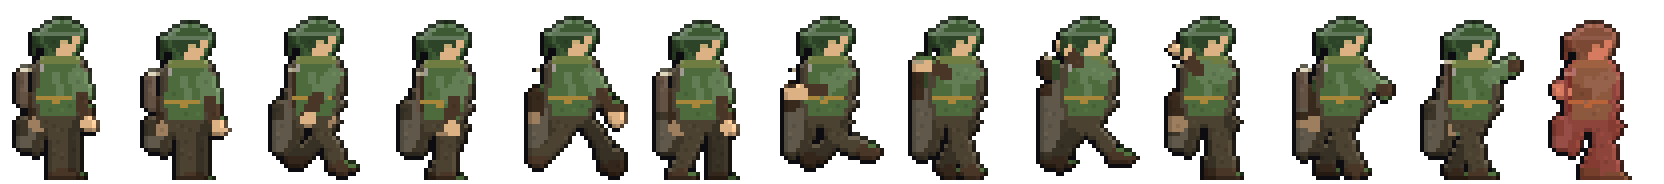
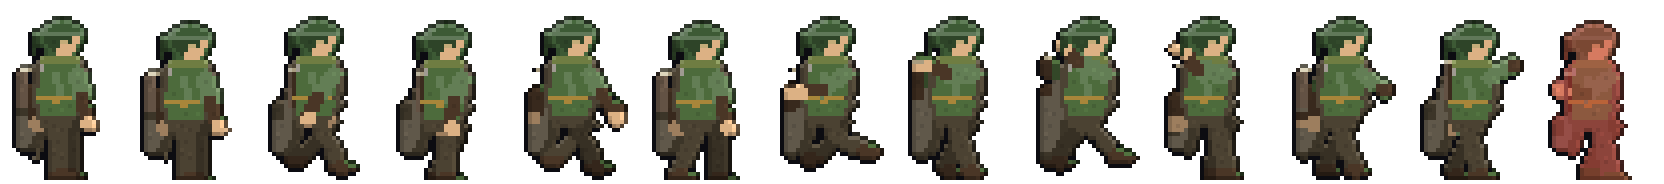
서 있을 때 망토를 걸을 때처럼 · walk3 다리 · 운석 사건
- mkplayer fix_frames: idle1·idle2 의 등 뒤(0~4열 · 17~35줄)를 walk4 의 것으로 — 뒷팔 밑에
  망토가 뭉쳐 자루처럼 보였다(사용자가 걸을 때 쪽을 고름). walk3(왼쪽 다섯째)은 보폭이 칸보다
  넓어 뒷다리가 망토에 파묻혔다 — walk1 다리를 가져오고 앞뒤 다리 색을 맞바꿔 걸음이 번갈아 가게.
  다른 캐릭터는 방랑자와 같은 자리 색으로 짝을 옮겨 쓴다.
- 운석(game.js '운석' 절): 반나절마다 0.0018(비 0.20 의 0.9%). 하늘 원경 불덩이 + 알림 → 5.2초
  뒤 낙하. 거리로 지진 세기·길이, 구덩이(공기·재·흙 — 운석 전용 타일·수정은 아직 없음), 반경 안
  몹 소멸(경험치 없음 · 보스 제외), 플레이어 판정이 R+1 칸 안이면 즉사(onDeath('meteor')).
  자리는 마을·캠프·유적·물건·기계·지은 타일·땅 위 벽·물·절벽 가장자리를 피한다(40번 뽑기 확인).
  가까이 떨어지면 마지막 1.2초 세계 앞으로 불덩이가 내리꽂힌다. ?debug=meteor(&at=me|x, &dx=).

Claude-Session: https://claude.ai/code/session_015bTXkb4q3SzK7wZ8JdbtYP

diff --git a/game/js/game.js b/game/js/game.js
@@ -409,7 +409,7 @@ const G = {
     this.villageUnlocked = false; this.goldRate = 1; this.market = {}; this.dayCount = 0; this.trainedToday = 0;
     this.achievements = {}; this.tally = {};
     this.survey = {}; this.ruinPulse = {}; this.pendingEcho = null; this.pulseHere = null;
-    this.rocks = []; this.quake = null; this.caveHere = 0; this._caveLast = 0;
+    this.rocks = []; this.quake = null; this.meteor = null; this.meteorRolled = undefined; this.caveHere = 0; this._caveLast = 0;
     this.nearStObj = { work: null, forge: null };
     this.event = null; this.eventRolled = -1; this.lairs = {}; this.seenRuins = {}; this.seenBiomes = {}; this._bgId = undefined; this.ruinMarks = {}; this.ruinEvDone = {}; this.trapTimer = 0;
     this.rainT = 0; this.rainDrops = null; this.smokes = []; this.smokeT = 0;
@@ -433,6 +433,12 @@ const G = {
     // 플레이에는 영향 없음(파라미터가 없으면 이 블록은 그냥 안 탄다).
     // &lv=2 또는 &lv=3을 붙이면 그 단계까지(2층 증축, 3단계 성벽) 미리 올려서 시작한다.
     const qs = new URLSearchParams(location.search);
+    /* ?debug=meteor — 2.5초 뒤 운석. &at=me 면 머리 위(즉사 확인), &at=<x> 면 그 칸, 없으면 오른쪽 &dx=(30)칸.
+       자리 검사(meteorSiteOk)를 건너뛰는 시험 전용이다. */
+    if (qs.get('debug') === 'meteor') {
+      const at = qs.get('at'), me = Math.floor(this.player.cx / TS);
+      setTimeout(() => this.startMeteor(at === 'me' ? me : at ? +at : me + (+qs.get('dx') || 30)), 2500);
+    }
     if (qs.get('debug') === 'village') {
       this.villageUnlocked = true;
       this.world.restoreDawnCity();
@@ -3172,6 +3178,13 @@ const G = {
   updateEvents(dt) {
     const night = this.dayT < 5 * 60 || this.dayT > 19 * 60;
     const phase = (this.dayCount * 2) + (night ? 1 : 0);
+    /* 운석은 이벤트(this.event)와 따로 굴린다 — 비·붉은 달이 오는 중에도 떨어질 수 있다.
+       불러온 직후의 국면은 굴리지 않는다(같은 국면을 다시 굴려 같은 운석이 또 떨어지는 것을 막는다). */
+    if (this.meteorRolled === undefined) this.meteorRolled = phase;
+    if (this.meteorRolled !== phase) {
+      this.meteorRolled = phase;
+      if (!this.meteor && new RNG(this.world.seed + '_meteor' + phase).chance(this.METEOR.chance)) this.startMeteor();
+    }
     if (this.event) {
       this.event.t += dt;
       // 국면이 끝나면 이벤트도 끝난다. 비처럼 낮/밤 구분이 없는 이벤트는 dur(지속 시간)로 대신 끊는다
@@ -4472,7 +4485,7 @@ const G = {
       this.ruinMarks = d.ruinMarks || {}; this.ruinEvDone = d.ruinEvDone || {};
       this.cipherSeen = d.cipherSeen || {};
       this.survey = d.survey || {}; this.ruinPulse = {}; this.pendingEcho = null; this.pulseHere = null;
-      this.rocks = []; this.quake = null; this.caveHere = 0; this._caveLast = 0;
+      this.rocks = []; this.quake = null; this.meteor = null; this.meteorRolled = undefined; this.caveHere = 0; this._caveLast = 0;
       this.deathMark = d.deathMark || null;
       this.asmRan = d.asmRan || 0;
       this.everPlanted = d.everPlanted || 0;
@@ -5406,6 +5419,8 @@ const G = {
       c.restore();
     }
 
+    this.drawMeteorNear(c, camX, camY);                 // 가까이 떨어지는 운석 · 떨어진 순간의 섬광
+
     // ---- 용광로 굴뚝 연기 ---- (입자보다 먼저 — 불티가 연기 앞에 보이도록)
     this.drawSmoke(c, camX, camY);
 
@@ -5570,6 +5585,7 @@ const G = {
       c.globalAlpha = 1;
       // 구름 — 비가 오는 동안은 짙고 빽빽하게, 평소엔 옅게 흘러간다
       this.drawClouds(c, camX, camY, this.rainT || 0);
+      this.drawMeteorSky(c, camY);                     // 운석 — 구름 앞, 원경 능선 뒤
     } else {
       const deep = camY > HELL_Y * TS - 400;
       const g = c.createLinearGradient(0, 0, 0, this.H);
@@ -7361,6 +7377,7 @@ const G = {
     this.rocks = this.rocks || [];
     this.updateRocks(dt);
     if (this.quake) this.updateQuake(dt);
+    if (this.meteor) this.updateMeteor(dt);
     const tx = Math.floor(p.cx / TS), ty = Math.floor(p.cy / TS);
     this._caveT = (this._caveT || 0) - dt;
     if (this._caveT > 0) return;
@@ -7438,6 +7455,206 @@ const G = {
         this.rocks.splice(i, 1);
       }
     }
+  },
+
+  /* ================= 운석 =================
+     아주 드문 사건 — 반나절(국면)마다 한 번 굴리고, 비(0.20)의 1/100 이 안 되는 0.0018 이다(0.9%).
+     흐름: ① 하늘 원경을 가르는 불덩이 + 알림 → ② FALL 초 뒤 떨어진다 — 지진(가까울수록 세고 길다),
+     구덩이, 폭발 반경 안의 생물은 죽는다. **플레이어 머리 위면 즉사**(onDeath('meteor')).
+     떨어질 자리는 세계 아무 데나지만 **이미 무언가 지어진 곳은 빼고** 고른다(meteorSiteOk).
+     ★ 운석 전용 타일·운석 수정은 아직 없다(사용자: "아직은 안 쓸 것"). 구덩이는 있는 타일로만 —
+       판 자리는 공기, 바닥은 재(T.ASH), 테두리는 흙이 한 칸 솟는다.
+     진행 상태(this.meteor)는 저장하지 않는다 — 떨어지는 몇 초 사이에 저장·불러오기를 하면 그냥 안 떨어진다.
+     구덩이는 타일이라 저장된다. */
+  METEOR: { chance: 0.0018, fall: 5.2, fg: 1.2, rMin: 5, rMax: 8 },
+
+  /** 떨어져도 되는 자리인가 — 구덩이 상자(좌우 R+3, 위 18 · 아래 R+2) 안에 지은 것이 하나도 없어야 한다 */
+  meteorSiteOk(cx, R) {
+    const w = this.world;
+    if (cx < 40 || cx > WW - 40 || inSeaZone(cx)) return false;
+    const cy = w.surface[cx];
+    const x0 = cx - R - 3, x1 = cx + R + 3, y0 = cy - 18, y1 = cy + R + 2;
+    if (w.giantTree && x1 >= w.giantTree.x - 24 && x0 <= w.giantTree.x + 24) return false;
+    const built = new Set([T.PLANK, T.BRICK, T.PLATFORM, T.TORCH, T.RUINBRICK, T.RUINTILE, T.ALTARSTONE]);
+    for (let x = x0; x <= x1; x++) {
+      if (Math.abs(w.surface[clamp(x, 0, WW - 1)] - cy) > R + 4) return false;     // 절벽 가장자리는 피한다
+      for (let y = y0; y <= y1; y++) {
+        const z = w.zoneAt(x, y);
+        if (z === 'village' || z === 'camp' || z === 'citadel' || z === 'deepshaft') return false;
+        if (w.ruinAt(x, y)) return false;
+        const t = w.get(x, y);
+        if (built.has(t) || MACH_OF_TILE[t] || TILE_DEF[t].liquid) return false;
+        if (y < w.surface[clamp(x, 0, WW - 1)] && w.walls[w.i(x, y)]) return false;   // 땅 위의 벽 = 누가 지은 집
+        if (w.machines && w.machines.has(y * WW + x)) return false;
+      }
+    }
+    const bx0 = x0 * TS, bx1 = (x1 + 1) * TS, by0 = y0 * TS, by1 = (y1 + 1) * TS;
+    for (const o of w.objects) if (o.x < bx1 && o.x + (o.w || TS) > bx0 && o.y < by1 && o.y + (o.h || TS) > by0) return false;
+    return true;
+  },
+
+  /** 운석을 띄운다. at 을 주면 그 칸에(디버그), 아니면 지은 것이 없는 자리를 뽑는다 */
+  startMeteor(at) {
+    if (this.meteor) return false;
+    const w = this.world, M = this.METEOR;
+    let x = -1, R = M.rMin + Math.floor(Math.random() * (M.rMax - M.rMin + 1));
+    if (at !== undefined) x = clamp(Math.round(at), 40, WW - 40);
+    else for (let i = 0; i < 400 && x < 0; i++) {
+      const c = 40 + Math.floor(Math.random() * (WW - 80));
+      if (this.meteorSiteOk(c, R)) x = c;
+    }
+    if (x < 0) return false;                                  // 떨어질 데가 없다 — 이번엔 지나간다
+    const p = this.player, pd = x - Math.floor(p.cx / TS);
+    this.meteor = { t: 0, x, y: w.surface[x], R, dir: pd >= 0 ? 1 : -1, hit: false, quake: 0, amp: 0 };
+    this.toast('☄ 하늘을 가르는 불덩이 — 운석이 떨어진다!', 'bad');
+    this.sfx('boss');
+    return true;
+  },
+
+  updateMeteor(dt) {
+    const m = this.meteor, M = this.METEOR;
+    m.t += dt;
+    if (!m.hit && m.t >= M.fall) this.meteorImpact();
+    if (m.hit) {
+      /* 지진 — 떨어진 곳과의 거리로 세기(amp)와 길이(quake)가 갈린다. shake 는 초당 26씩 가라앉으므로
+         길게 흔들리려면 끝날 때까지 다시 채워 줘야 한다. */
+      if (m.quake > 0) {
+        m.quake -= dt;
+        this.shake = Math.max(this.shake, m.amp * clamp(m.quake / m.quakeMax, 0.25, 1));
+      }
+      if (m.t > M.fall + Math.max(4, m.quakeMax || 0)) this.meteor = null;
+    }
+  },
+
+  meteorImpact() {
+    const m = this.meteor, w = this.world, p = this.player;
+    m.hit = true;
+    const cx = m.x, cy = m.y, R = m.R;
+    const ptx = p.cx / TS, pty = p.cy / TS;
+    const dist = Math.hypot(ptx - (cx + 0.5), pty - cy);
+    /* 세기: 바로 곁 34 → 400칸 너머 3. 길이: 곁 4초 → 멀면 1초 */
+    const near = clamp(1 - dist / 420, 0, 1);
+    m.amp = 3 + 31 * near * near; m.quakeMax = m.quake = 1 + 3 * near;
+    this.shake = Math.max(this.shake, m.amp);
+    this.sfx('boom_big', 0.7, 0.4 + 0.6 * near);
+    this.sfx('sk_quake', 1, 0.3 + 0.7 * near);
+    this.carveCrater(cx, cy, R);
+    // 불티·흙
+    if (dist < 80) for (let i = 0; i < 90; i++) {
+      const c = i % 3 ? (i % 2 ? '#ffb24a' : '#ff6a2a') : '#6a5a48';
+      this.parts.push(new Part((cx + 0.5) * TS + (Math.random() - 0.5) * R * TS, cy * TS, c, -260 - Math.random() * 260, 0.9 + Math.random() * 0.9,
+        { glow: i % 3 ? 1 : 0, spd: 2.2, g: i % 3 ? 0.4 : 1.2, sq: i % 3 ? 0 : 1 }));
+    }
+    // 폭발 반경 안의 생물 — 주인은 버틴다(보스가 돌에 맞아 죽으면 이야기가 끊긴다)
+    const bx = (cx + 0.5) * TS, by = cy * TS, br = (R + 2) * TS;
+    for (const e of this.ents) {
+      if (e.dead || e.boss) continue;
+      // die() 는 경험치·금화를 준다 — 하늘이 잡은 것까지 플레이어 몫으로 치면 안 된다
+      if (Math.hypot(e.cx - bx, e.cy - by) < br) { e.hp = 0; e.dead = true; }
+    }
+    // ★ 머리 위면 즉사 — 판정 상자가 폭발 원(R+1칸)에 닿으면. 무적 시간도 소용없다
+    const qx = clamp(bx, p.x, p.x + p.w), qy = clamp(by, p.y, p.y + p.h);
+    if (Math.hypot(qx - bx, qy - by) < (R + 1) * TS && this.state === 'play') {
+      p.hp = 0;
+      this.toast('☄ 운석에 맞았다.', 'bad');
+      this.onDeath('meteor');
+      return;
+    }
+    const dx = cx - Math.floor(ptx);
+    const where = dist < 40 ? '바로 곁에' : `${dx >= 0 ? '동쪽' : '서쪽'}으로 ${Math.abs(dx)}칸 떨어진 곳에`;
+    this.toast(`☄ 운석이 ${where} 떨어졌다. 땅이 울린다.`, 'bad');
+  },
+
+  /** 운석 구덩이 — 있는 타일로만. 나무·풀은 날아가고, 사발 모양으로 파이고, 바닥은 재, 테두리는 흙이 솟는다 */
+  carveCrater(cx, cy, R) {
+    const w = this.world;
+    for (let dx = -R - 3; dx <= R + 3; dx++) {
+      const x = cx + dx;
+      if (x < 1 || x >= WW - 1) continue;
+      // 위의 나무·잎·풀·덩굴은 날아간다(안 떨구면 구덩이 위에 수관이 뜬다)
+      for (let y = cy - 24; y <= cy + R; y++) {
+        const t = w.get(x, y), d = TILE_DEF[t];
+        if (t !== T.AIR && (d.tree || d.leaf || d.plant || t === T.VINE || t === T.FLOWER || t === T.WEED)) w.set(x, y, T.AIR);
+      }
+      if (Math.abs(dx) <= R) {
+        const depth = Math.round(Math.sqrt(R * R - dx * dx) * 0.75);
+        const top = w.surface[x], bot = cy + depth;
+        for (let y = Math.min(top, cy) - 2; y <= bot; y++) {
+          if (w.get(x, y) === T.BEDROCK) continue;
+          w.set(x, y, T.AIR); w.setWall(x, y, 0);                 // 벽도 걷는다 — 하늘이 트여야 햇빛이 든다
+        }
+        if (w.solid(x, bot + 1) && w.get(x, bot + 1) !== T.BEDROCK) w.set(x, bot + 1, T.ASH);
+        if (w.solid(x, bot + 2) && w.get(x, bot + 2) !== T.BEDROCK && Math.random() < 0.5) w.set(x, bot + 2, T.ASH);
+        w.surface[x] = bot + 1;
+      } else if (Math.abs(dx) <= R + 2) {
+        // 테두리 — 튀어나간 흙이 한 칸 쌓인다
+        const s = w.surface[x];
+        if (w.get(x, s - 1) === T.AIR) { w.set(x, s - 1, T.DIRT); w.surface[x] = s - 1; }
+      }
+    }
+  },
+
+  /** 하늘 원경의 불덩이 — drawSky 가 부른다(땅 위 하늘을 그릴 때만). 떨어질 쪽으로 사선을 긋는다 */
+  drawMeteorSky(c, camY) {
+    const m = this.meteor;
+    if (!m) return;
+    const M = this.METEOR;
+    if (!m.hit) {
+      const u = clamp(m.t / M.fall, 0, 1);
+      const hx = this.W * (0.5 - m.dir * 0.42 + m.dir * 0.8 * u), hy = this.H * (0.04 + 0.62 * Math.pow(u, 1.3)) - camY * 0.05;
+      const L = 90 + 240 * u, ang = Math.atan2(0.62 * this.H, m.dir * 0.8 * this.W);
+      const tx = hx - Math.cos(ang) * L, ty = hy - Math.sin(ang) * L;
+      c.save();
+      c.globalCompositeOperation = 'lighter';
+      const g = c.createLinearGradient(tx, ty, hx, hy);
+      g.addColorStop(0, 'rgba(255,120,60,0)'); g.addColorStop(0.7, 'rgba(255,150,70,.45)'); g.addColorStop(1, 'rgba(255,230,170,.95)');
+      c.strokeStyle = g; c.lineWidth = 3 + 4 * u; c.lineCap = 'round';
+      c.beginPath(); c.moveTo(tx, ty); c.lineTo(hx, hy); c.stroke();
+      const r = 5 + 7 * u, hg = c.createRadialGradient(hx, hy, 0, hx, hy, r * 3.5);
+      hg.addColorStop(0, 'rgba(255,250,220,1)'); hg.addColorStop(0.3, 'rgba(255,190,100,.8)'); hg.addColorStop(1, 'rgba(255,120,60,0)');
+      c.fillStyle = hg; c.beginPath(); c.arc(hx, hy, r * 3.5, 0, TAU); c.fill();
+      c.restore();
+    } else {
+      // 떨어진 뒤 — 지평선이 잠깐 달아오른다(멀리 떨어졌어도 어디쯤인지 보이게)
+      const k = clamp(1 - (m.t - M.fall) / 2.5, 0, 1);
+      if (k > 0) {
+        const hx = this.W * (0.5 + m.dir * 0.38), hy = this.H * 0.7 - camY * 0.05;
+        const hg = c.createRadialGradient(hx, hy, 0, hx, hy, this.W * 0.35);
+        hg.addColorStop(0, `rgba(255,170,90,${0.55 * k})`); hg.addColorStop(1, 'rgba(255,120,60,0)');
+        c.fillStyle = hg; c.fillRect(0, 0, this.W, this.H);
+      }
+    }
+  },
+
+  /** 가까이 떨어질 때 — 마지막 fg 초 동안 **세계 앞**으로 불덩이가 내리꽂힌다(화면 안이거나 곁이면) */
+  drawMeteorNear(c, camX, camY) {
+    const m = this.meteor;
+    if (!m) return;
+    const M = this.METEOR, ix = (m.x + 0.5) * TS, iy = m.y * TS;
+    if (m.hit) {
+      const k = clamp(1 - (m.t - M.fall) / 0.35, 0, 1);          // 떨어진 순간의 섬광
+      if (k > 0 && Math.abs(ix - camX - this.W / 2) < this.W) {
+        c.save(); c.globalAlpha = 0.8 * k; c.fillStyle = '#fff4d8'; c.fillRect(0, 0, this.W, this.H); c.restore();
+      }
+      return;
+    }
+    const left = M.fall - m.t;
+    if (left > M.fg || Math.abs(ix - camX - this.W / 2) > this.W * 1.2) return;
+    const u = 1 - left / M.fg;
+    const sx = ix - m.dir * 420 * (1 - u) - camX, sy = iy - 900 * (1 - u) - camY;
+    const tx = sx - m.dir * 120, ty = sy - 260;
+    c.save();                                      // 보통 합성 — 밝은 낮 하늘에 lighter 로 더하면 하얗게 날아간다
+    const g = c.createLinearGradient(tx, ty, sx, sy);
+    /* ★ 한가운데까지 흰색으로 두고 lighter 로 더했더니 낮 하늘과 합쳐져 **흰 원반**만 보였다(스크린샷).
+       보통 합성으로 · 불꼬리·불덩이 모두 주황 쪽으로 — 한가운데 작은 점만 밝게. */
+    g.addColorStop(0, 'rgba(255,90,30,0)'); g.addColorStop(0.6, 'rgba(255,120,40,.5)'); g.addColorStop(1, 'rgba(255,190,90,.85)');
+    c.strokeStyle = g; c.lineWidth = 14; c.lineCap = 'round';
+    c.beginPath(); c.moveTo(tx, ty); c.lineTo(sx, sy); c.stroke();
+    const hg = c.createRadialGradient(sx, sy, 0, sx, sy, 34);
+    hg.addColorStop(0, 'rgba(255,220,150,.9)'); hg.addColorStop(0.3, 'rgba(255,130,50,.7)'); hg.addColorStop(1, 'rgba(200,60,20,0)');
+    c.fillStyle = hg; c.beginPath(); c.arc(sx, sy, 34, 0, TAU); c.fill();
+    c.restore();
+    c.fillStyle = '#3a2a22'; c.beginPath(); c.arc(sx, sy, 9, 0, TAU); c.fill();      // 돌덩이
   },
 
   /** 금 간 자갈을 깼다 — 곡괭이든 폭탄이든. 그 자리의 자갈 기록을 찾아 무너뜨린다 */

diff --git a/tools/mkplayer.py b/tools/mkplayer.py
@@ -255,6 +255,68 @@ def save(frames, path):
     im.save(path)
 
 
+# ── 손그림 고치기(rebuild 전에, 22×41 원본 좌표) ─────────────────────────────────────────
+# ★ 서 있을 때(0 idle1 · 1 idle2) 망토가 걸을 때와 딴판이었다 — 뒷팔이 늘어져 손 밑에 망토가 뭉쳐 있어
+#   허리 뒤에 자루를 매단 것처럼 보였다(걸을 때는 어깨에서 무릎까지 곧은 판). 사용자가 걸을 때 쪽을 골랐다.
+#   서 있는 두 장의 등 뒤(0~4열 · 17~35줄)를 walk4(5번 — 까딱인 높이가 idle2 와 같다)의 것으로 바꾼다.
+#   idle1 은 한 줄 덜 까딱이므로 한 줄 위에서 가져온다.
+# ★ walk3(4번, 깃허브에서 왼쪽 다섯째 그림)은 보폭이 칸보다 넓어 뒷다리가 망토에 파묻히고 뒷발이 벽에 잘려
+#   다리가 쐐기 한 덩어리로 보였다. walk1(2번)의 다리(28줄 아래)를 가져오되 **앞다리·뒷다리 색을 맞바꾼다**
+#   — 안 바꾸면 같은 다리만 늘 앞으로 나가 절뚝이는 걸음이 된다. 색 짝은 방랑자 기준(가까운 다리 ↔ 먼 다리)이고,
+#   다른 캐릭터는 같은 자리 색으로 옮겨 쓴다(mkchars.py 가 부위마다 색만 바꿔 구웠다).
+LEG_SWAP = {'33384a': '232632', '2a2e3d': '1c1f29', '494d5e': '3a3f50', '4a3626': '34261b',
+            '3d2c1f': '2b1f16', '575149': '47423b'}
+LEG_SWAP.update({v: k for k, v in LEG_SWAP.items()})
+hx = lambda p: '%02x%02x%02x' % p[:3]
+
+
+def fix_frames(g, w):
+    """g: 이 캐릭터의 13장(22×41, 고친다), w: 방랑자 13장(색 짝 찾기용, 안 고친다)"""
+    fwd, inv = {}, {}
+    for f in range(N):
+        for y in range(OH):
+            for x in range(OW):
+                a, b = w[f][y][x], g[f][y][x]
+                if a[3] and b[3]:
+                    fwd.setdefault(hx(a), Counter())[b] += 1
+                    inv.setdefault(b, Counter())[hx(a)] += 1
+    fwd = {k: v.most_common(1)[0][0] for k, v in fwd.items()}
+    inv = {k: v.most_common(1)[0][0] for k, v in inv.items()}
+
+    def swap(p):
+        if not p[3] or p not in inv:
+            return p
+        q = LEG_SWAP.get(inv[p])
+        return fwd.get(q, p) if q else p
+
+    def close(fr, x0, x1, y0, y1):
+        """고친 자리에서 윤곽 없이 투명과 맞닿은 칸에 윤곽선(벽 칸 0·21열 · 0줄은 잘림 표시라 안 건드림)"""
+        OUTC = outline_color(fr)
+        for y in range(max(1, y0), min(OH, y1 + 1)):
+            for x in range(max(1, x0), min(OW - 1, x1 + 1)):
+                if fr[y][x][3]:
+                    continue
+                if any(0 <= y + dy < OH and fr[y + dy][x + dx][3] and fr[y + dy][x + dx] != OUTC
+                       for dx, dy in ((1, 0), (-1, 0), (0, 1), (0, -1))):
+                    fr[y][x] = OUTC
+
+    # 서 있을 때 망토 = 걸을 때 망토
+    for f, dy in ((0, 1), (1, 0)):
+        for y in range(17, 36):
+            sy = y + dy
+            if sy >= OH:
+                continue
+            for x in range(0, 5):
+                g[f][y][x] = g[5][sy][x]
+        close(g[f], 0, 7, 16, 38)
+    # walk3 다리 = walk1 다리(앞뒤 색 맞바꿈)
+    for y in range(28, OH):
+        for x in range(OW):
+            g[4][y][x] = swap(g[2][y][x])
+    close(g[4], 0, OW - 1, 26, OH - 1)
+    return g
+
+
 def main():
     man_p = os.path.join(ROOT, 'manifest.json')
     man = json.load(open(man_p, encoding='utf-8'))
@@ -262,7 +324,9 @@ def main():
     hands = None
     for cid in IDS:
         key = 'player_' + cid
-        frames = [rebuild(g) for g in frames_of(os.path.join(SRC, key + '.png'))]
+        wsrc = frames_of(os.path.join(SRC, 'player_wanderer.png'))
+        src = fix_frames(frames_of(os.path.join(SRC, key + '.png')), wsrc)
+        frames = [rebuild(g) for g in src]
         if cid == 'wanderer':
             hs = [FIXED.get(i) or hand_of(c, i in HIGH) for i, c in enumerate(frames)]
             # 피격(붉게 물든 장)처럼 살색이 안 잡히는 장은 첫 장의 손을 쓴다

diff --git a/CLAUDE.md b/CLAUDE.md
@@ -209,6 +209,7 @@ Object.keys(Sprites.img).filter(k => !Sprites.img[k].width)   // 실패한 것
 | `?debug=sea` · `bomb` · `price` · `fishfarm` | 그 구역/기능 시험장 |
 | `?debug=ruin&id=mine` | 그 유적 방에서 시작 (`&pulse=` 맥박 · `&boss=1` 주인 처치 = 메아리) |
 | `?debug=cave` | 가장 가까운 금 간 자갈 앞에서 시작 (`&k=moss\|drip\|geode\|fume` 그 갈래 굴 안) |
+| `?debug=meteor` | 2.5초 뒤 운석 (`&at=me` 머리 위 = 즉사 · `&at=<x>` 그 칸 · `&dx=` 오른쪽 몇 칸, 기본 30) |
 | `&sess=` · `&ch=` · `&plv=` · `&gold=` | 세션·장·레벨·금화를 직접 준다 |
 
 ---
@@ -300,9 +301,15 @@ bash tools/build-site.sh         # game/ → site/play/ 복사 + 매니페스트
   **원본은 `tools/art/`**(22×41)이고 `python3 tools/mkplayer.py` → `sync-manifest.py` 로 굽는다 — 원래 그림은 그대로 두고
   칸 벽에 잘린 망토 자락·손·발만 이어 그린 뒤(정수리는 안 늘린다), 테두리 빛·부드러운 윤곽·옷 결을 한 겹 더한다.
   게임 폴더의 시트를 도구에 다시 먹이지 말 것(두 번 늘어난다). mkchars·unclip·mkhead·fixcrown 도 `tools/art/`를 본다.
+  서 있는 두 장의 망토는 걷기(walk4)의 것, walk3 다리는 walk1 다리(앞뒤 색 맞바꿈)로 고쳐 굽는다(`fix_frames`).
   무기는 매니페스트 `hand`·`handBox`(프레임마다 무기 손)에 쥐이고 손 칸을 무기 위에 다시 그린다(game.js `playerHand`).
   헤엄은 걷기 네 장을 눕혀 돌린다(`drawSwimPlayer`). ★ 팔·망토를 코드로 그리던 리그는 원래 그림의 디테일이 빠져
   되돌렸다 — 다시 만들지 말 것. 헤엄 물리는 entity.js '헤엄' 절. 옛 공용 시트 `player.png`는 `tools/art/base_player.png`.
+- **운석**(game.js '운석' 절 · `METEOR`): 반나절마다 0.0018(비의 0.9%). 하늘 원경 불덩이 + 알림 → 5.2초 뒤 떨어짐 ·
+  거리에 따라 지진 세기·길이 · 구덩이(있는 타일만 — 공기·재·흙, 운석 전용 타일·수정은 아직 안 쓴다) · 폭발 반경의
+  몹은 죽고(경험치 없음 · 보스 제외) **플레이어 판정이 R+1 칸 안이면 즉사**. 자리는 `meteorSiteOk`(마을·캠프·유적·물건·
+  기계·지은 타일·땅 위 벽·물·절벽 가장자리 제외). 진행 상태는 저장 안 함, 구덩이는 타일이라 저장된다.
+  구덩이 칸은 `surface[]`도 내린다(햇빛이 든다).
 - **나무와 잎**: 눈 지대는 소나무(world.js `pineTree` — 톱니 원뿔 수관 · 기둥은 수관 밑까지 · 층 윗면에 눈).
   소나무 잎(`PINELEAF`)은 game.js `ASH_TILE`에 없어서 장이 넘어가도 안 진다. 정글 잎은 `shed 0.22 · thin 0.35`로
   조금만 진다. 잎마다 제 나뭇잎 아이템(`leaf_oak`·`leaf_pine`·`leaf_jungle`·`leaf_corrupt`·`leaf_sky`·`leaf_palm`)이

diff --git a/docs/v1.1-changelog.md b/docs/v1.1-changelog.md
@@ -31,6 +31,11 @@
 - **주인공 그림 — 원래 손그림으로 되돌리고 잘린 곳을 이었습니다(다섯 캐릭터 모두).** 칸 벽에 잘려 있던 망토
   뒷자락·앞으로 뻗은 손·발을 이어 그렸고, 테두리 빛과 옷 결을 한 겹 더했습니다. 판정 크기는 그대로입니다.
   무기는 그림 속 손에 쥐여지고(걷기·점프·공격·활·낚싯대), 헤엄칠 때 팔이 셋 나오던 것이 없어졌습니다.
+- **서 있을 때도 망토가 걸을 때처럼** 등 뒤로 곧게 드리웁니다(허리 뒤에 자루처럼 뭉쳐 있던 것을 고침).
+  걷기 셋째 장의 다리(뒷다리가 망토에 파묻혀 쐐기처럼 보이던 것)도 고쳤습니다.
+- **운석.** 아주 드물게(비의 1/100 미만) 하늘을 가르는 불덩이가 보이고, 몇 초 뒤 세계 어딘가에 떨어집니다.
+  떨어진 곳이 가까울수록 땅이 세게·오래 흔들리고, 떨어진 자리에는 구덩이가 파입니다. 마을·유적·지은 집에는
+  떨어지지 않습니다. **머리 위에 떨어지면 즉사합니다.**
 - **눈 지대에 소나무가 자랍니다.** 층층이 좁아지는 수관에 층마다 눈이 얹혀 있고, 늘푸른 잎이라 장이
   넘어가도 잎이 지지 않습니다. **정글 잎은 장이 넘어가도 조금만 집니다.**
 - **나무마다 제 나뭇잎이 나옵니다** — 떡갈잎 · 솔잎 · 정글 잎사귀 · 말린 부패 잎 · 하늘 잎 · 야자 잎사귀.
